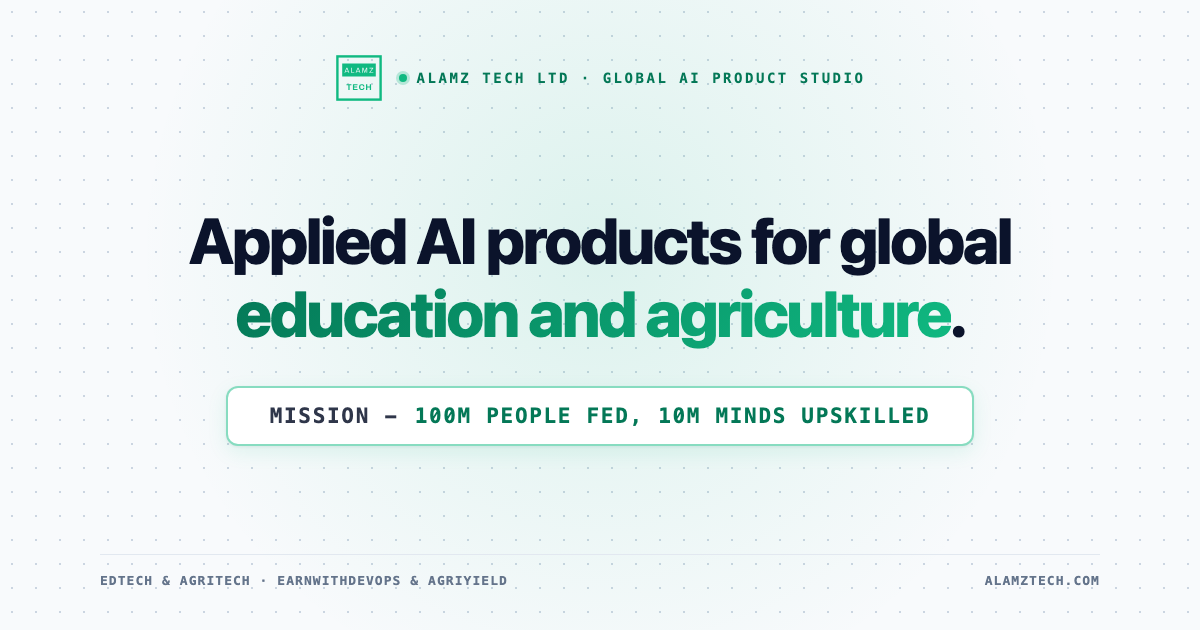
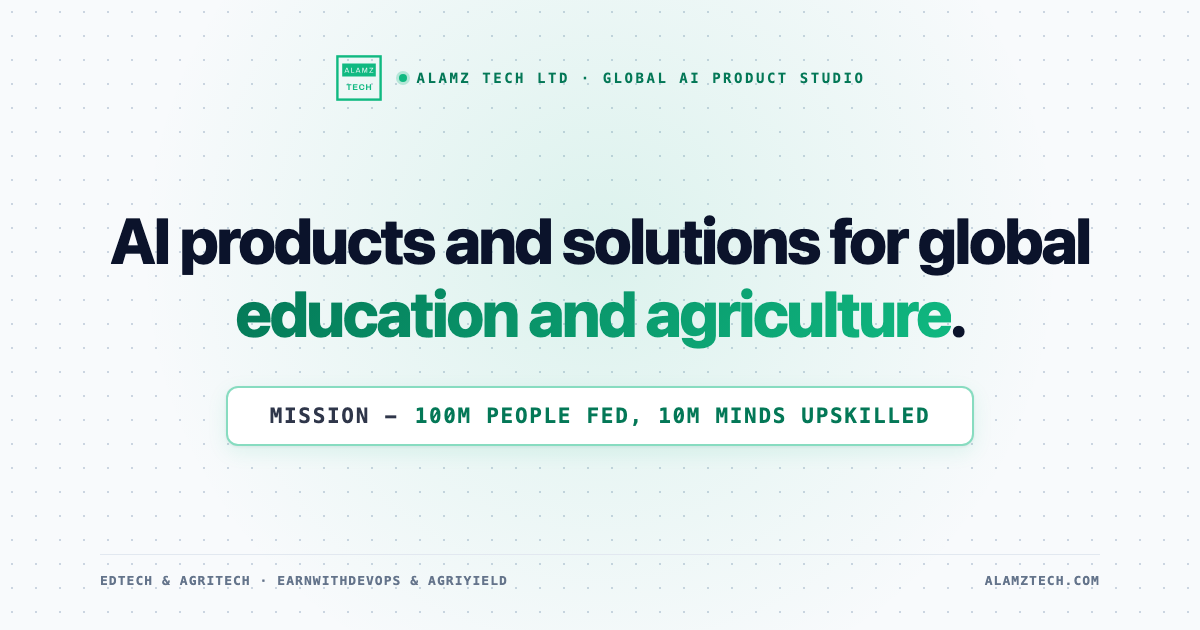
Update hero headline, sub-copy, and OG image to match brand positioning

Changed region(s): [[0.0925, 0.3317, 0.925, 0.4524]]

diff --git a/index.html b/index.html
@@ -9,24 +9,24 @@
      LINK PREVIEWS (LinkedIn, WhatsApp, X, Slack)
      These point at https://alamztech.com: the live domain.
      --------------------------------------------------------------------- -->
-<meta name="description" content="Applied AI products for food security and technical education. The big dream is the direction, the 1% is the work: 100M people fed, 10M minds upskilled. Built in Nigeria, for the world.">
+<meta name="description" content="Alamz Tech builds applied AI products for agriculture and technical education - helping businesses make better decisions and helping people build skills that lead to real opportunities. Made in Nigeria, Built for the world.">
 <meta name="theme-color" content="#F8FAFC" id="theme-color">
 <link rel="canonical" href="https://alamztech.com/">
 <meta property="og:type" content="website">
 <meta property="og:site_name" content="Alamz Tech">
 <meta property="og:title" content="Alamz Tech Ltd | AI Product Studio for Education & Agriculture">
-<meta property="og:description" content="Applied AI products for food security and technical education. The big dream is the direction, the 1% is the work: 100M people fed, 10M minds upskilled. Built in Nigeria, for the world.">
+<meta property="og:description" content="Alamz Tech builds applied AI products for agriculture and technical education - helping businesses make better decisions and helping people build skills that lead to real opportunities. Made in Nigeria, Built for the world.">
 <meta property="og:url" content="https://alamztech.com/">
-<meta property="og:image" content="https://alamztech.com/assets/og-image.png?v=26">
+<meta property="og:image" content="https://alamztech.com/assets/og-image.png?v=28">
 <meta property="og:image:width" content="1200">
 <meta property="og:image:height" content="630">
-<meta property="og:image:alt" content="Alamz Tech Ltd: Applied AI products for global education and agriculture.">
+<meta property="og:image:alt" content="Alamz Tech Ltd: AI products and solutions for global education and agriculture.">
 <meta name="twitter:card" content="summary_large_image">
-<meta name="twitter:image" content="https://alamztech.com/assets/og-image.png?v=26">
+<meta name="twitter:image" content="https://alamztech.com/assets/og-image.png?v=28">
 
 <!-- Cache buster query token. Bump on any deploy changing CSS/JS. -->
-<link rel="icon" href="assets/favicon.svg?v=27" type="image/svg+xml">
-<link rel="stylesheet" href="assets/css/styles.css?v=27">
+<link rel="icon" href="assets/favicon.svg?v=28" type="image/svg+xml">
+<link rel="stylesheet" href="assets/css/styles.css?v=28">
 </head>
 <body>
 
@@ -95,10 +95,12 @@
       <div>
         <p class="hero__tag">Global AI Product Studio · EdTech & AgriTech</p>
         <h1 class="hero__title">
-          Applied AI products for global
-          <em>education and agriculture</em>.
+          AI products and solutions<br>
+          for global <em>education and agriculture</em>.
         </h1>
-        <p class="hero__sub" data-bind="brand.heroSub"></p>
+        <p class="hero__sub" data-bind="brand.heroSub">Alamz Tech builds applied AI products for agriculture and technical education - helping businesses make better decisions and helping people build skills that lead to real opportunities.
+
+Our ambition is simple: help feed 100 million people and upskill 10 million minds. Made in Nigeria, Built for the world</p>
         <div class="hero__actions">
           <a class="btn btn--primary" href="#products">
             See our products

diff --git a/assets/css/styles.css b/assets/css/styles.css
@@ -63,7 +63,7 @@
   /* Max is deliberately lower than the old 4.9rem: the repositioned headline
      is a longer sentence, and at 4.9rem it ran to five lines and pushed the
      CTAs below the fold. */
-  --fs-display: clamp(2.15rem, 1.4rem + 3.4vw, 4rem);
+  --fs-display: clamp(1.65rem, 1.15rem + 2.8vw, 4rem);
   --fs-h2:      clamp(1.65rem, 1.18rem + 2.05vw, 2.65rem);
   --fs-h3:      clamp(1.15rem, 1.05rem + 0.4vw, 1.35rem);
   --fs-lede:    clamp(1.05rem, 0.99rem + 0.34vw, 1.25rem);
@@ -458,6 +458,10 @@ button { font: inherit; color: inherit; }
   letter-spacing: -0.038em;
   line-height: 1.03;
   margin-bottom: var(--s-5);
+  text-wrap: pretty;
+}
+@media (min-width: 600px) {
+  .hero__title { text-wrap: balance; }
 }
 .hero__title em {
   font-style: normal;
@@ -470,6 +474,7 @@ button { font: inherit; color: inherit; }
   color: var(--ink-mid);
   max-width: 54ch;
   margin-bottom: var(--s-6);
+  white-space: pre-line;
 }
 
 .hero__actions { display: flex; flex-wrap: wrap; gap: var(--s-3); }

diff --git a/assets/js/config.js b/assets/js/config.js
@@ -13,9 +13,8 @@ window.ALAMZ = {
     wordmark: 'Alamz Tech',
     tagline: 'Global AI product studio for Education and Agriculture.',
     heroSub:
-      'The big dream is the direction. The 1% is the work. ' +
-      'Food security feeds the body; technical education feeds the future. ' +
-      'We build applied AI software to help feed 100 million people and upskill 10 million minds. Built in Nigeria, for the world.',
+      'Alamz Tech builds applied AI products for agriculture and technical education - helping businesses make better decisions and helping people build skills that lead to real opportunities.\n\n' +
+      'Our ambition is simple: help feed 100 million people and upskill 10 million minds. Made in Nigeria, Built for the world',
     email: 'hussein@alamztech.com',
     location: 'Lagos, Nigeria',
   },

diff --git a/tools/make-og.py b/tools/make-og.py
@@ -162,7 +162,7 @@ body {{
 
 <div class="main-block">
   <h1 class="title">
-    Applied AI products for global<br>
+    AI products and solutions for global<br>
     <em>education and agriculture</em>.
   </h1>
   <div class="mission-wrap">
